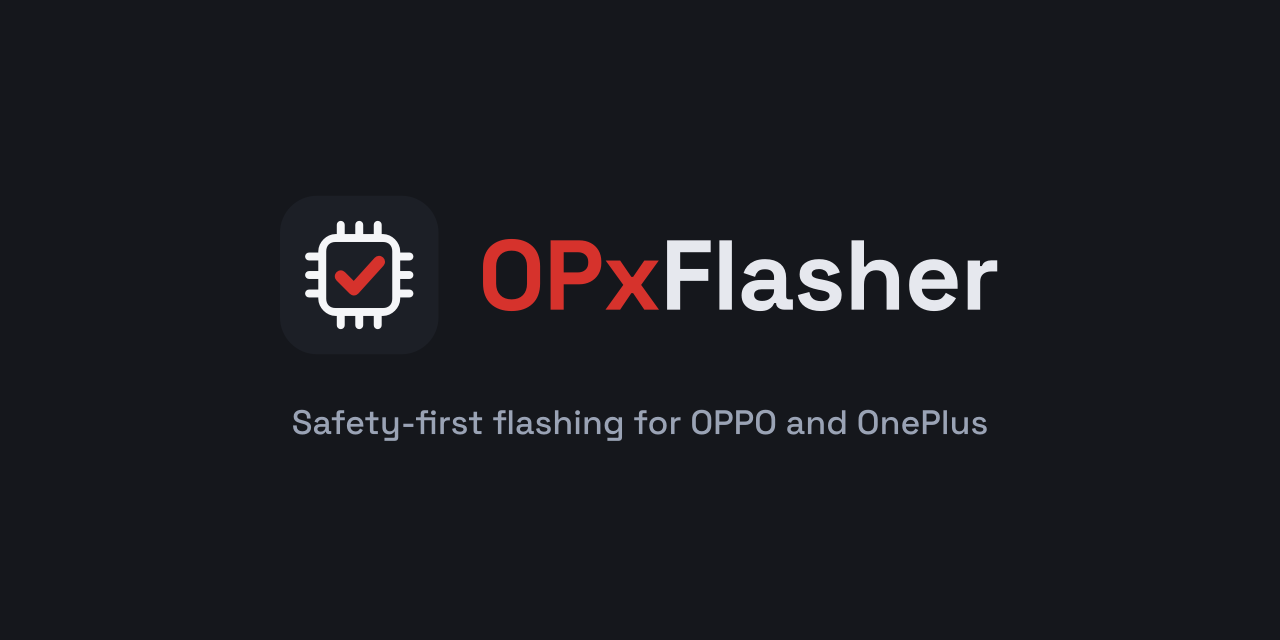
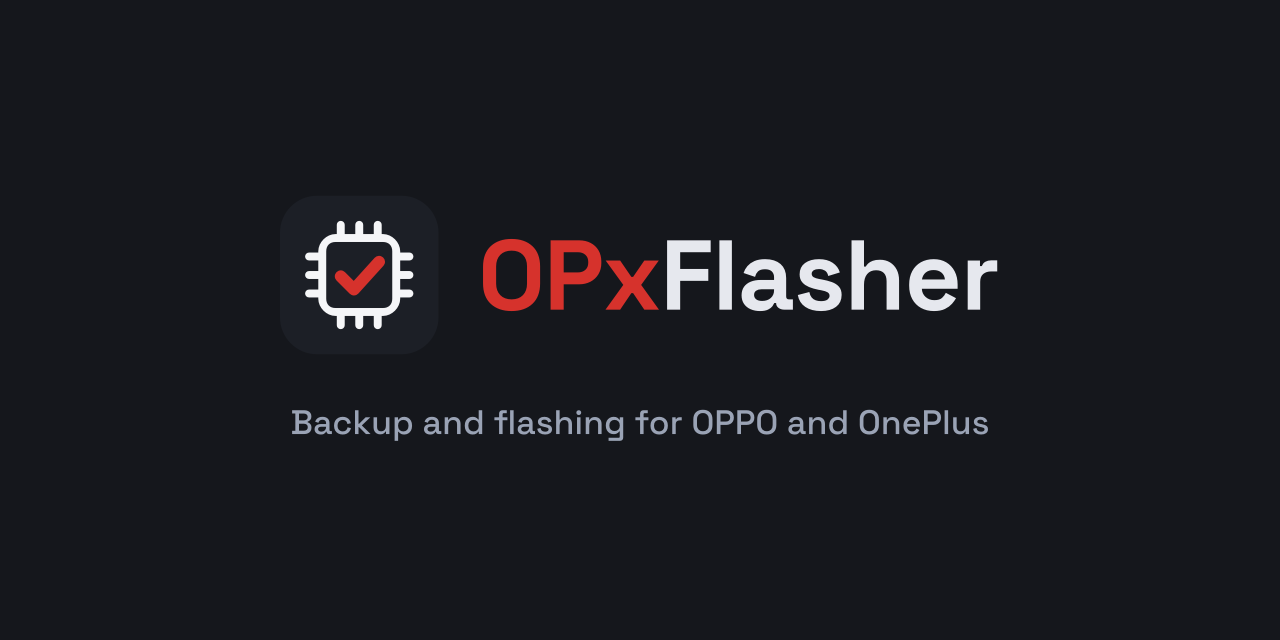
Drop the "safety-first" tagline
Plain description everywhere instead: README header, package
description, module docstring, CLI help, GUI subtitle and the social
preview image (regenerated).

Claude-Session: https://claude.ai/code/session_01AjnQtT5PZVVjGERXHdoZwQ

Changed region(s): [[0.2188, 0.625, 0.7812, 0.6875]]

diff --git a/src/opx/gui/app.py b/src/opx/gui/app.py
@@ -157,7 +157,7 @@ class MainWindow(QMainWindow):
 
         title = QLabel("OPxFlasher")
         title.setObjectName("title")
-        subtitle = QLabel("Safety-first tools for OPPO / OnePlus phones: backup, ROM check, guarded flashing, signal restore and root.")
+        subtitle = QLabel("Backup, ROM check, flashing, signal restore and root for OPPO / OnePlus phones.")
         subtitle.setStyleSheet("color:#9aa3b5")
         layout.addWidget(title)
         layout.addWidget(subtitle)

diff --git a/src/opx/cli.py b/src/opx/cli.py
@@ -554,7 +554,7 @@ def cmd_gui(args) -> int:
 
 
 def build_parser() -> argparse.ArgumentParser:
-    p = argparse.ArgumentParser(prog="opx", description="OPxFlasher - safety-first OPPO/OnePlus tool")
+    p = argparse.ArgumentParser(prog="opx", description="OPxFlasher - backup and flashing for OPPO/OnePlus phones")
     p.add_argument("--version", action="version", version=f"OPxFlasher {__version__}")
     sub = p.add_subparsers(dest="command", required=True)
 

diff --git a/scripts/build_brand.py b/scripts/build_brand.py
@@ -49,7 +49,7 @@ BG = "#15171C"
 
 WORDMARK = "OPxFlasher"
 ACCENT_CHARS = 3  # "OPx"
-TAGLINE = "Safety-first flashing for OPPO and OnePlus"
+TAGLINE = "Backup and flashing for OPPO and OnePlus"
 
 
 # --------------------------------------------------------------------------- render

diff --git a/src/opx/__init__.py b/src/opx/__init__.py
@@ -1,3 +1,3 @@
-"""OPxFlasher: safety-first backup and flashing for OPPO / OnePlus (OPlus) phones."""
+"""OPxFlasher: backup and flashing for OPPO / OnePlus (OPlus) phones."""
 
 __version__ = "0.5.0"

diff --git a/README.md b/README.md
@@ -6,7 +6,7 @@
 </h1>
 
 <p align="center">
-  <b>Safety-first backup and flashing tool for OPPO / OnePlus (OPlus platform) phones.</b><br>
+  <b>Backup and flashing tool for OPPO / OnePlus (OPlus platform) phones.</b><br>
   Windows and Linux, GUI and command line.
 </p>
 
